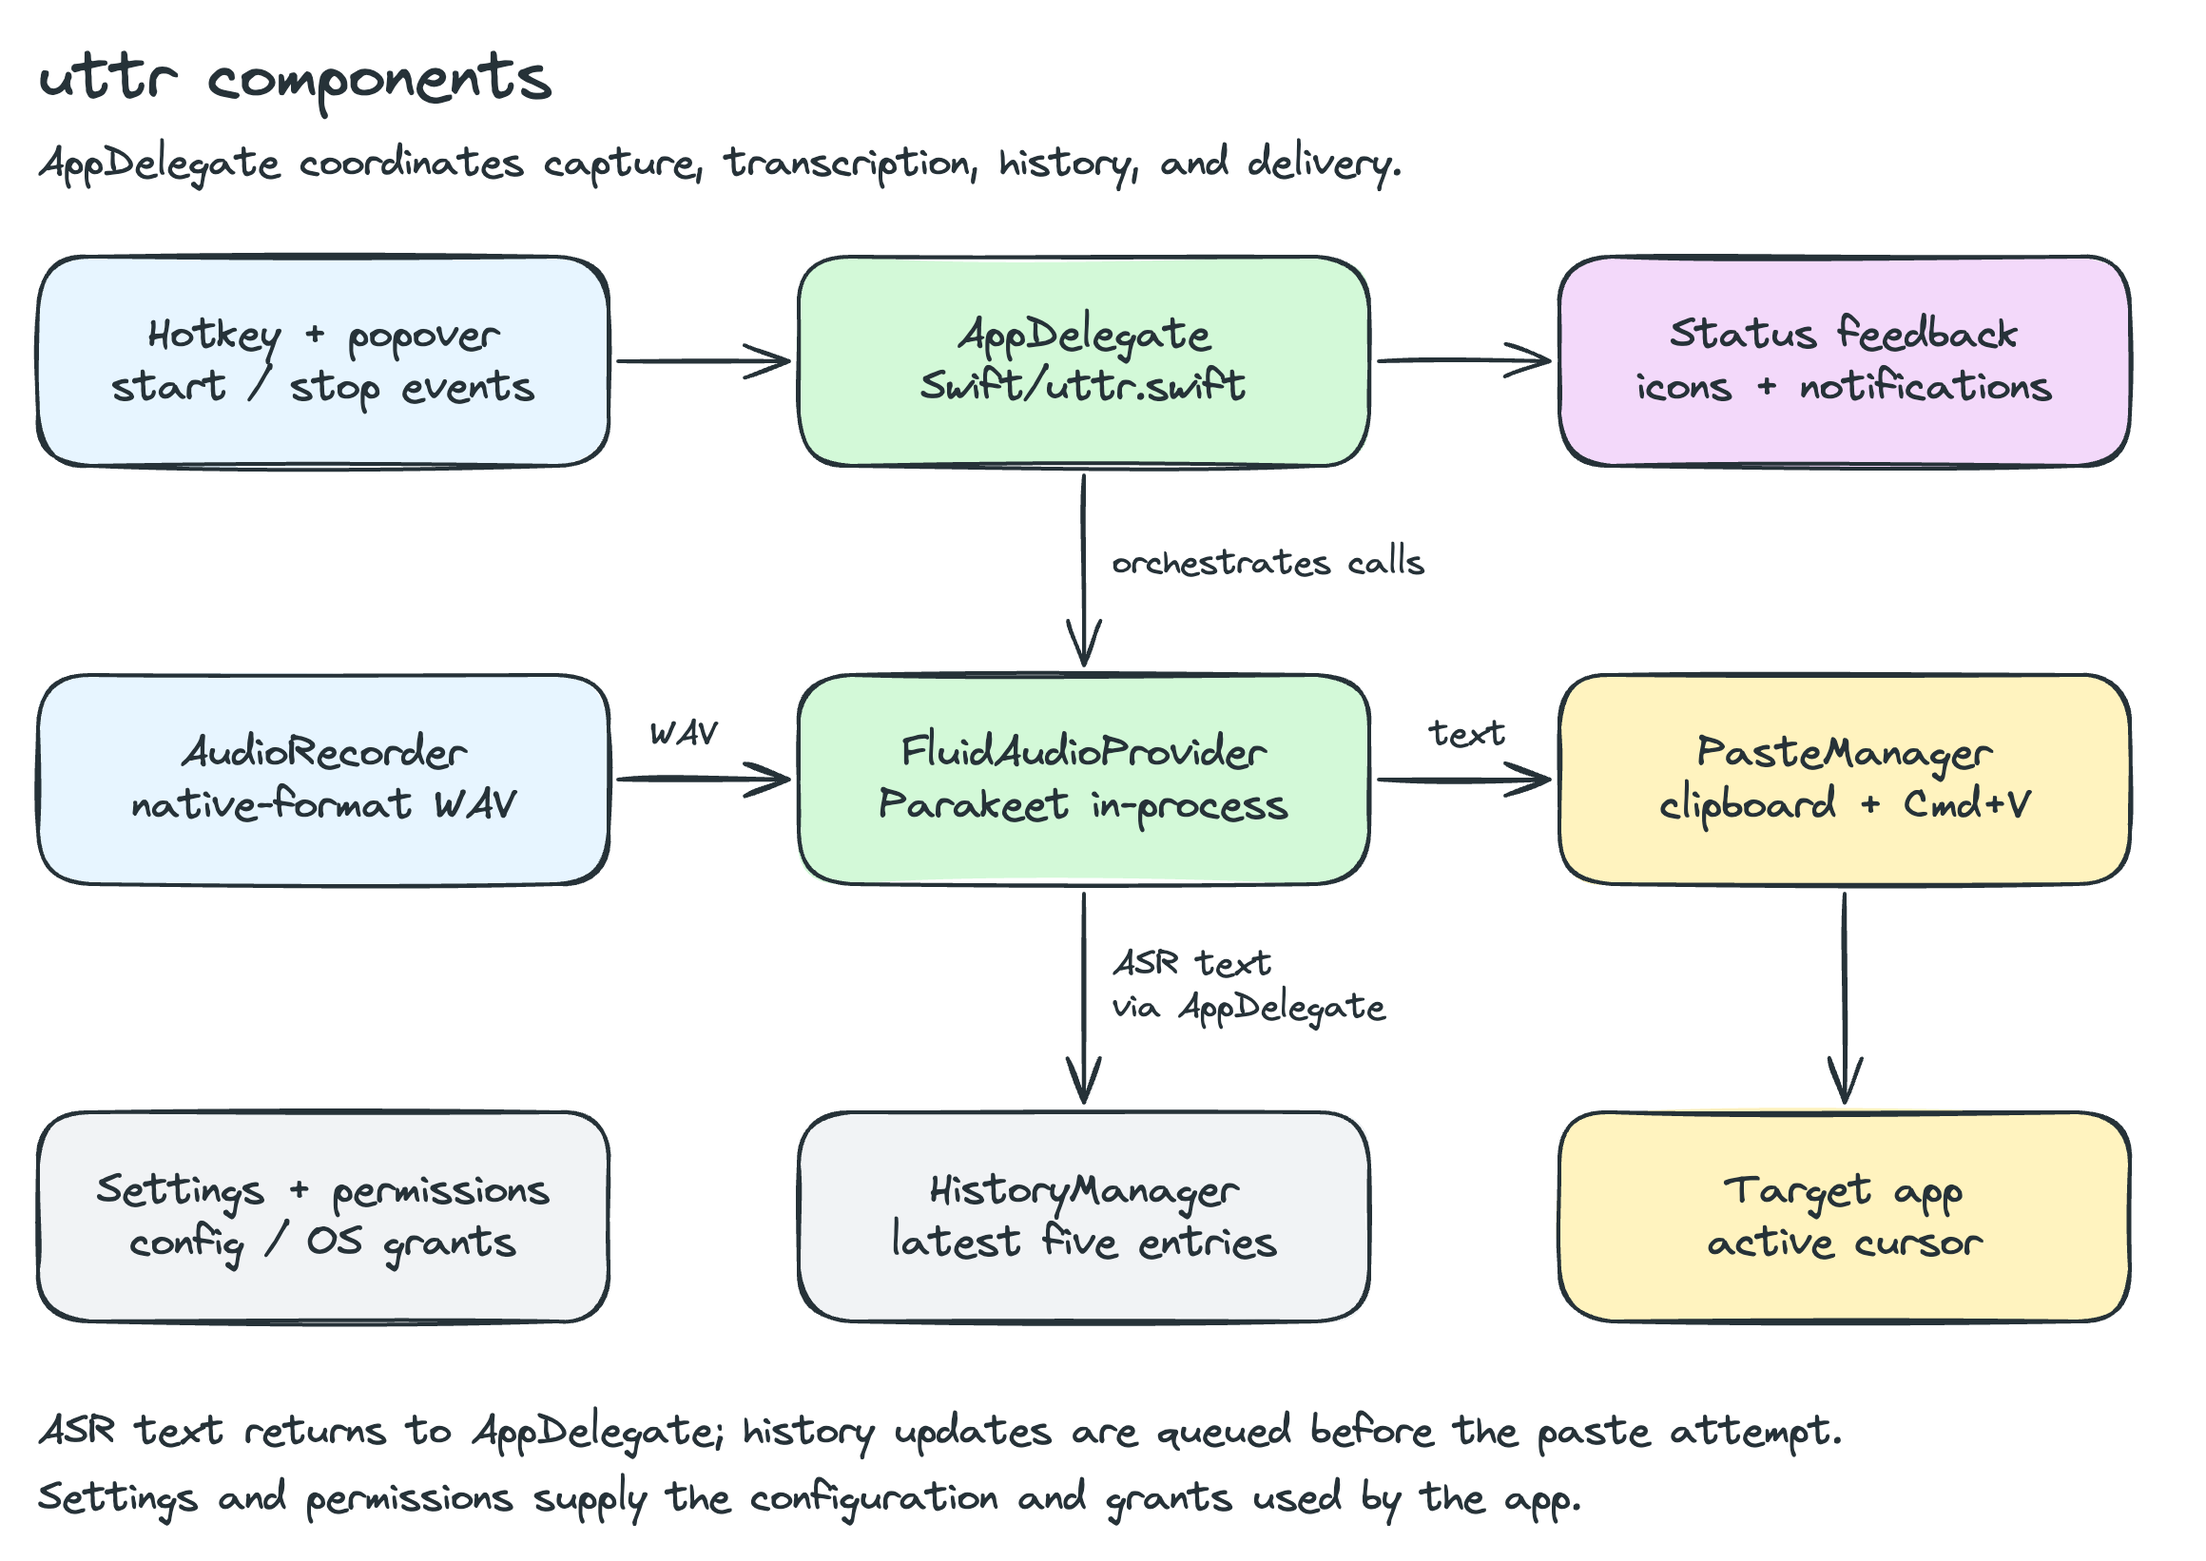
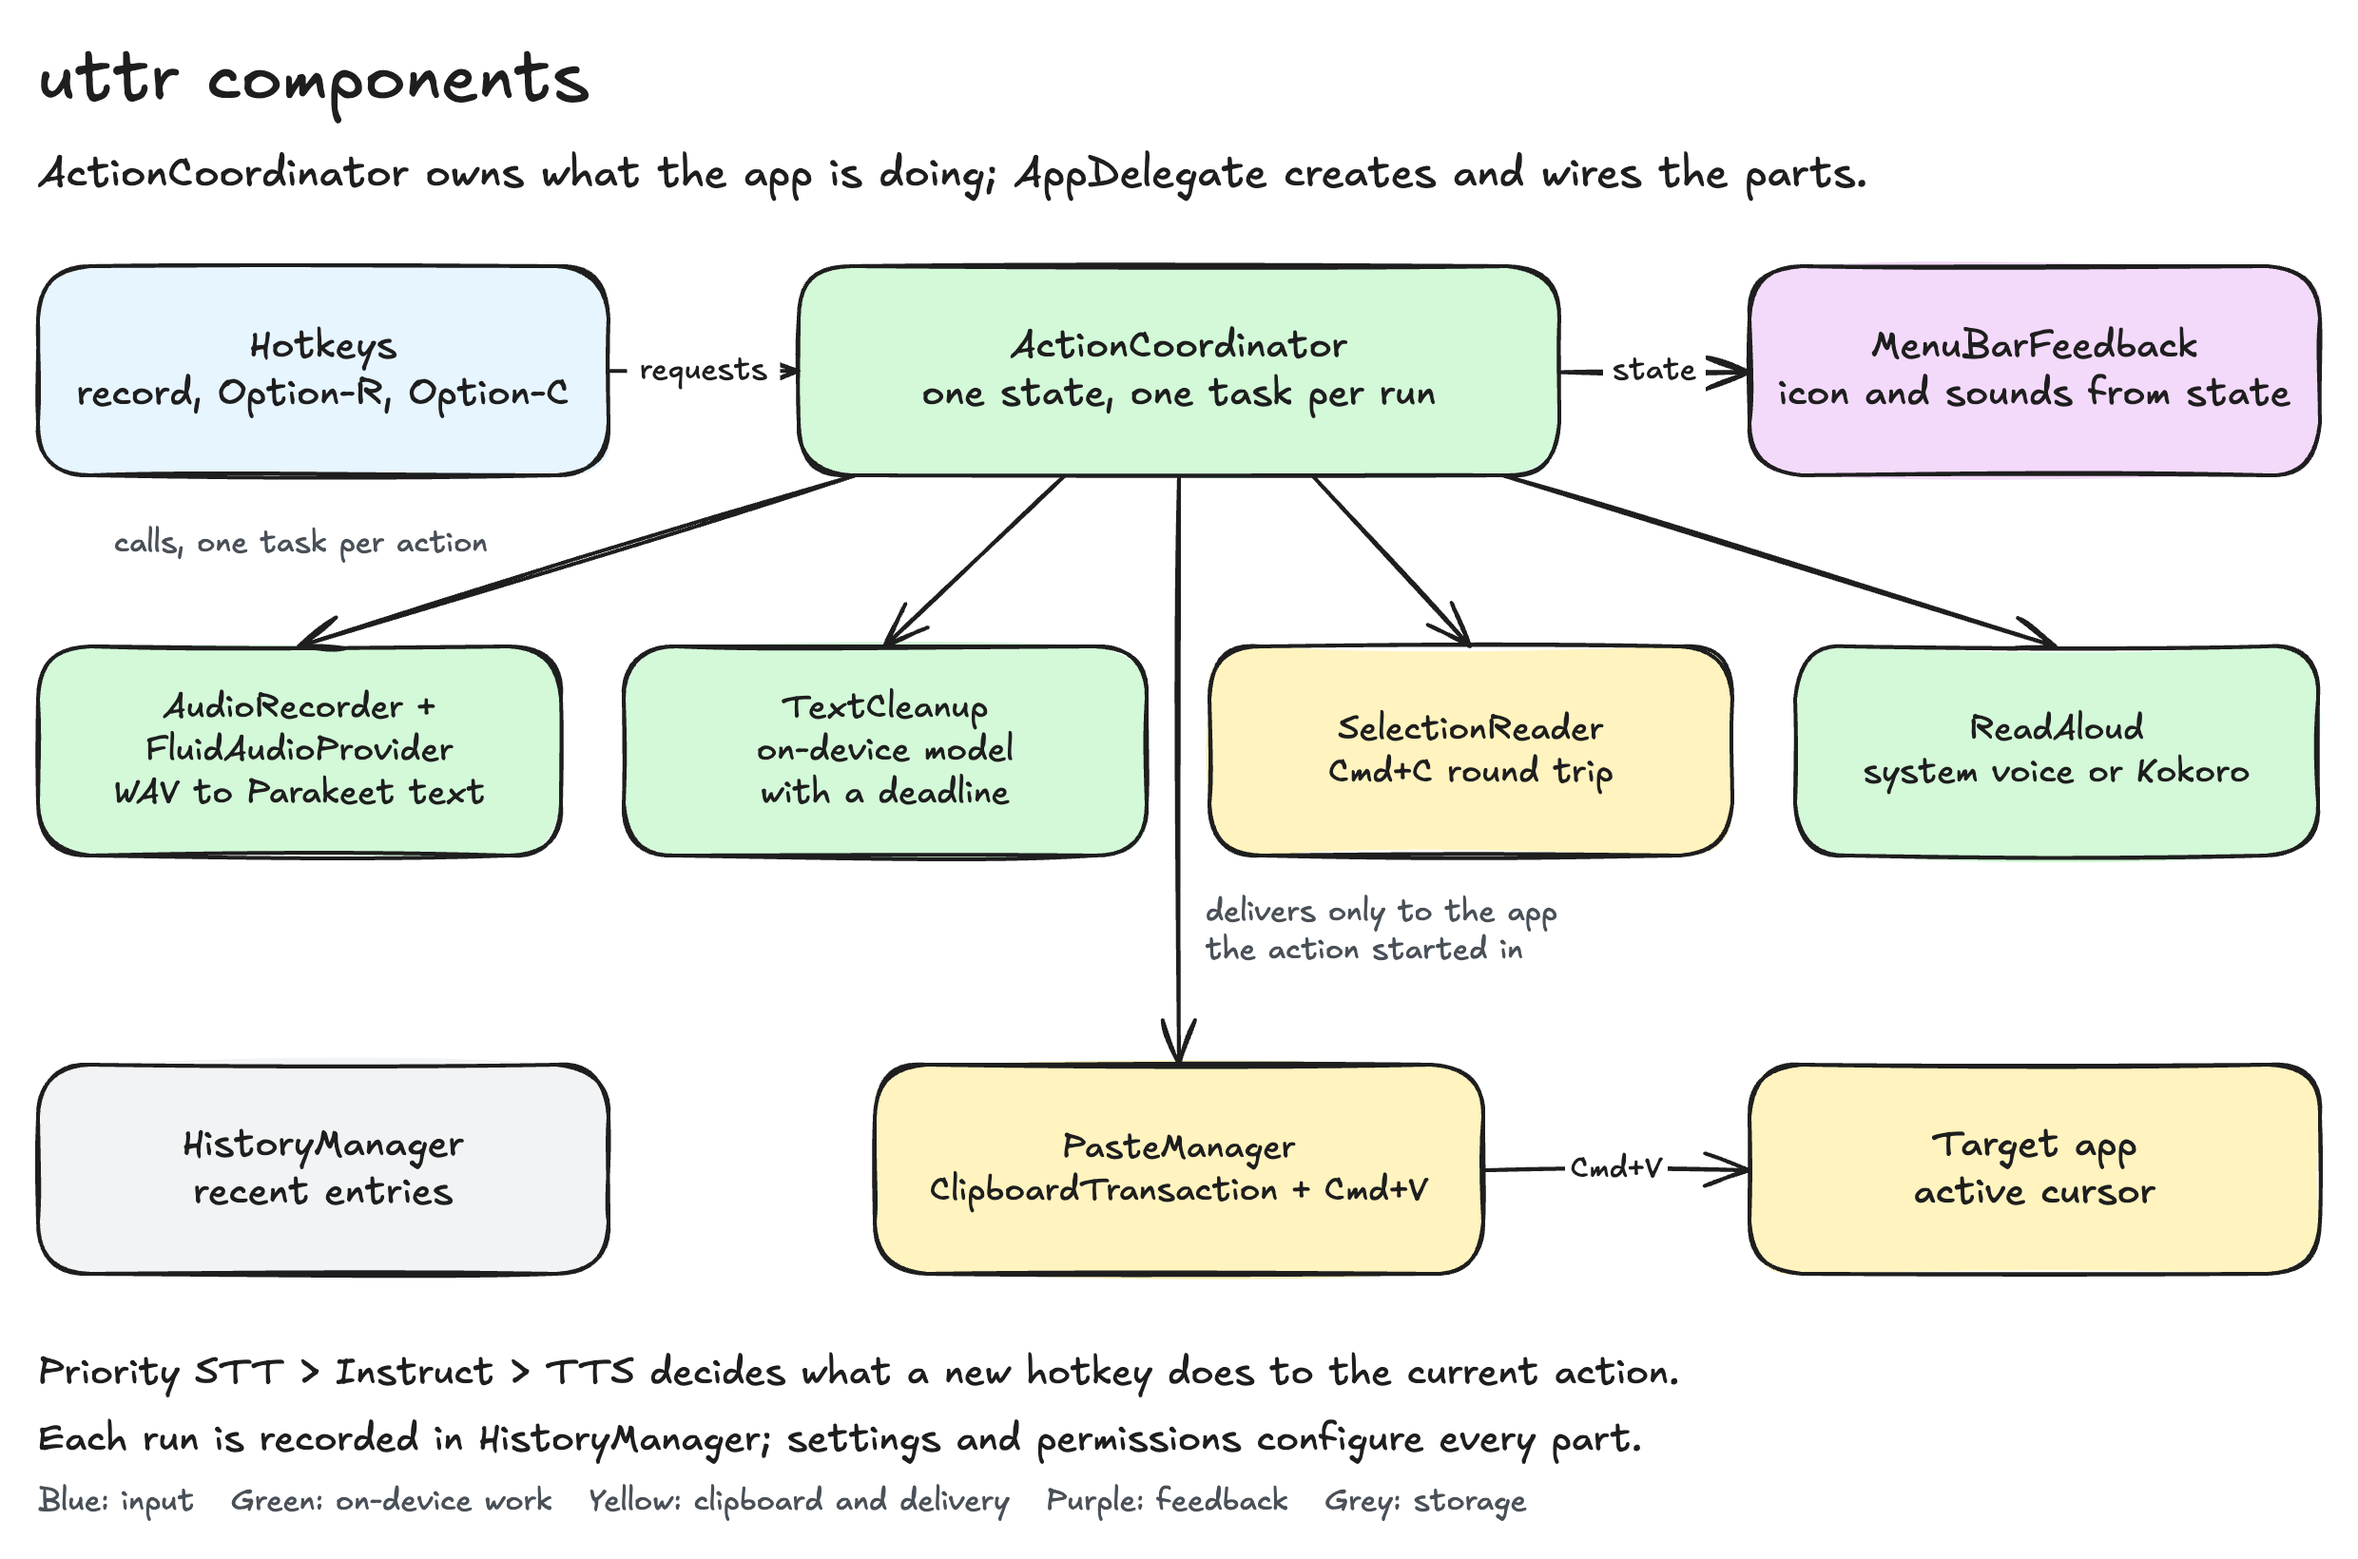
docs(architecture): describe the action coordinator

diff --git a/docs/architecture.md b/docs/architecture.md
@@ -3,38 +3,70 @@
 uttr is a Swift macOS menu-bar app. FluidAudio runs Parakeet in-process on Apple
 Silicon. Model preparation can download files; transcription itself runs locally.
 
-![uttr components: AppDelegate coordinates capture, local Parakeet inference, history, paste, and status feedback](assets/diagrams/architecture.png)
+![uttr components: hotkeys send requests to ActionCoordinator, which drives capture and Parakeet, cleanup, selection reading, and read-aloud, delivers through PasteManager, and drives menu-bar feedback from its state](assets/diagrams/architecture.png)
 
 ## Recording and Delivery
 
-![Recording flow: provider preparation, capture, transcription, queued history, paste attempt, and status feedback](assets/diagrams/recording-flow.png)
+![Recording flow run by ActionCoordinator: provider preparation, capture, transcription, optional cleanup, history, delivery to the same app or the clipboard, and status feedback](assets/diagrams/recording-flow.png)
 
-`AppDelegate` in `Swift/uttr.swift` creates the components and coordinates the
-recording-to-paste flow:
+`AppDelegate` in `Swift/uttr.swift` creates the components and the
+`ActionCoordinator` (`Swift/Coordination/`), which runs the recording-to-paste flow:
 
 1. Launch or a provider change calls `prepare()` to download/load the selected
    model. Recording is blocked until `isProviderReady` is true.
-2. The registered hotkey starts `AudioRecorder`. A second invocation
-   stops capture and hands back a temporary WAV at the input's native format.
-3. An asynchronous task calls `FluidAudioProvider.transcribe(audioFileURL:)`.
-4. On the main actor, if Clean up dictation is on, AppDelegate first runs
-   `TextCleanup` with the `.dictation` profile, which returns within 2 seconds
-   with either cleaned text or the transcript ([Cleanup](cleanup.md)).
-5. AppDelegate queues a history update and calls `PasteManager`. Paste uses the
-   clipboard and simulated `Cmd+V` events; success/error feedback updates the
-   menu-bar icon and notifications.
+2. The registered hotkey starts `AudioRecorder`. A second invocation stops capture
+   and hands back a temporary WAV at the input's native format.
+3. A coordinator-owned task calls `FluidAudioProvider.transcribe(audioFileURL:)`.
+4. If Clean up dictation is on, the coordinator runs `TextCleanup` with the
+   `.dictation` profile, which returns within 2 seconds with either cleaned text
+   or the transcript ([Cleanup](cleanup.md)).
+5. The coordinator queues a history update and delivers the text. Delivery checks
+   that the app in front is still the one the action started in; if not, nothing is
+   pasted, the text is left on the clipboard, and the menu-bar icon flashes a clipboard symbol instead of the checkmark. Otherwise `PasteManager` uses the
+   clipboard and simulated `Cmd+V` events. The menu-bar icon and sounds report the
+   outcome.
 
-The recording flag is cleared before transcription starts. The current app does
-not serialize the entire capture/transcription/paste flow or keep its asynchronous
-tasks in a separate session owner. Provider switches tear down and replace the
-provider in an asynchronous task. Changes to these lifetimes need explicit review
-of busy input, provider switching, delayed callbacks, and quit behavior.
+## Action Coordination
+
+Dictation, read-aloud (⌥R), and selection cleanup (⌥C, the "instruct" action) all
+go through `ActionCoordinator`, a `@MainActor` object that owns one foreground
+`ActionState` (idle, capturing, transcribing, cleaning, inserting, reading a
+selection, speaking, instructing) and one task per run. `ActionPolicy` decides what
+a new request does to the state. It derives the answer from a fixed priority:
+dictation (STT) over instructions over read-aloud (TTS). A higher-priority request
+replaces the current action, a lower one is ignored, and equal priorities follow
+their own rule.
+
+| Current state | Record | ⌥C (instruct) | ⌥R (read aloud) |
+|---------------|--------|---------------|-----------------|
+| Idle | Start | Start | Start |
+| Capturing | Stop | Ignored | Ignored |
+| Transcribing, inserting | Start a new recording; the earlier run still pastes | Ignored | Ignored |
+| Cleaning dictation | Deliver the transcript now, then record | Ignored | Ignored |
+| Reading a selection | Cancel the read, then record | Cancel the read, then clean | Cancel |
+| Speaking | Stop speech, then record | Stop speech, then clean | Stop |
+| Instructing (reading, cleaning) | Cancel it, then record | Ignored | Ignored |
+| Instructing (inserting) | Start; the paste finishes | Ignored | Ignored |
+
+Ignored hotkeys give a brief dip of the menu-bar icon and no sound. A selection read
+that was cancelled finishes its clipboard round trip before the next read starts, so
+reads never overlap. The icon is derived from the state: it shows recording,
+processing, transforming, or speaking, and a finished run flashes its result only
+when nothing else is using the icon. A background dictation still cleaning up makes
+⌥C ignored. A model that is still loading refuses a recording before anything else
+is stopped. On quit the coordinator cancels every run; a transcript that was being
+cleaned is saved to history as it was. The hotkey channel carries press and release
+events, but only presses are registered today.
+
+Provider switches still tear down and replace the provider in an asynchronous
+task owned by `AppDelegate`.
 
 ## Components
 
 | File under `Swift/` | Responsibility |
 |--------------------|----------------|
-| `uttr.swift` | App lifecycle, component wiring, recording/transcription orchestration, windows |
+| `uttr.swift` | App lifecycle, component wiring, windows |
+| `Coordination/ActionPolicy.swift`, `Coordination/ActionCoordinator.swift`, `Coordination/MenuBarFeedback.swift` | Action state, the priority-based policy, run ownership and delivery checks, and the menu-bar/sound feedback driven from state |
 | `AudioRecorder.swift` | AVAudioEngine capture to a native-format temporary WAV; interruption reporting |
 | `AudioDeviceManager.swift` | Core Audio input enumeration and UID → runtime device ID lookup |
 | `HotkeyManager.swift` | Global shortcuts registered per action (recording, read aloud, clean up selection) via Carbon |
@@ -49,9 +81,9 @@ of busy input, provider switching, delayed callbacks, and quit behavior.
 | `Transcription/TranscriptionProvider.swift` | Provider protocol and factory |
 | `Transcription/FluidAudioProvider.swift` | Parakeet v2/v3 preparation, inference, teardown |
 | `Cleanup/TextCleanup.swift`, `Cleanup/CleanupOutputChecks.swift`, `Cleanup/AppleCleanupBackend.swift` | On-device text cleanup with deadlines and output checks. See [Cleanup](cleanup.md). |
-| `Cleanup/SelectionCleanup.swift` | ⌥C: cleans the frontmost selection and pastes over it, or reports why it didn't |
-| `Selection/SelectionReader.swift` | Reads the frontmost selection with a Cmd+C round trip, waiting up to about 0.75 s for slow apps and restoring the clipboard unless it changed |
-| `Speech/SpeechEngine.swift`, `Speech/ReadAloud.swift` | Read-aloud: the `SpeechEngine` protocol with the system voice, and the ⌥R toggle that records a history entry and switches voices between reads |
+| `Cleanup/SelectionCleanup.swift` | The cleanup step of ⌥C; the coordinator reads the selection and delivers the result |
+| `Selection/SelectionReader.swift` | Reads the frontmost selection with a Cmd+C round trip, waiting up to about 0.75 s for slow apps and restoring the clipboard unless it changed; used by the coordinator for ⌥R and ⌥C |
+| `Speech/SpeechEngine.swift`, `Speech/ReadAloud.swift` | Read-aloud: the `SpeechEngine` protocol with the system voice, and the voice owner that switches voices between reads |
 | `Speech/KokoroSpeechEngine.swift`, `Speech/SpeechChunks.swift` | FluidAudio's Kokoro voice, with every Core ML stage on the Neural Engine or CPU; synthesizes sentence by sentence while earlier sentences play |
 | `Logger.swift` | Shared locked writer for component logs |
 
@@ -90,9 +122,9 @@ requires a prepared manager, and `teardown()` calls its cleanup method.
 | Recordings | macOS temporary directory; filenames include a recording timestamp. Deleted when their entry leaves history. |
 | Kokoro voice models | FluidAudio's cache under `~/.cache/fluidaudio/Models/`, about 320 MB; downloaded the first time ⌥R is used, loaded on the first ⌥R of each launch |
 
-AppDelegate requests a history update before attempting paste. With dictation
-cleanup on, that happens after cleanup, so a quit during those 2 seconds loses
-the transcript. HistoryManager
+The coordinator requests a history update before attempting paste. With dictation
+cleanup on, that happens after cleanup; a quit during those 2 seconds saves the
+transcript as it was. HistoryManager
 queues the list update and JSON write on the main queue; persistence is not a
 prerequisite for posting paste events. History can recover a failed insertion. Its current writes are not coordinated across simultaneous app
 instances. A recording is deleted when its entry is trimmed or history is cleared,

diff --git a/docs/getting-started.md b/docs/getting-started.md
@@ -79,8 +79,9 @@ Select text in any app and press `⌥R` to hear it. Press `⌥R` again to stop. 
 menu-bar icon shows a speaker while it reads, and History keeps what was read.
 uttr reads the selection by copying it and then restores your clipboard (every
 item and format, unless you copied something new meanwhile), so it
-needs the same Accessibility permission as pasting. Read-aloud is ignored while
-recording, and starting a recording stops it.
+needs the same Accessibility permission as pasting. Dictation comes first, then
+`⌥C`, then read-aloud: starting a recording or `⌥C` stops speech, and a shortcut
+that can't run right now is ignored with a brief dip of the menu-bar icon.
 
 The first `⌥R` after each launch also starts preparing the Kokoro voice in the
 background. The very first time, that downloads about 320 MB of Kokoro models
@@ -97,7 +98,9 @@ model and pastes the result over the selection: spelling, punctuation and
 capitalization are fixed and fillers like "um" removed, keeping your words and
 meaning. If the cleanup would lose content (a number, a negation, a question),
 times out after 10 seconds, or can't run, the selection is left as it was and a
-notification says why. History keeps the cleaned text. Cleanup needs Apple
+notification says why. If you switch to another app before the cleaned text is
+ready, it is not pasted; it is left on the clipboard instead. History keeps the
+cleaned text. Cleanup needs Apple
 Intelligence on macOS 26 or later; Settings → Cleanup edits the prompt.
 
 ### Clean Up Dictation
